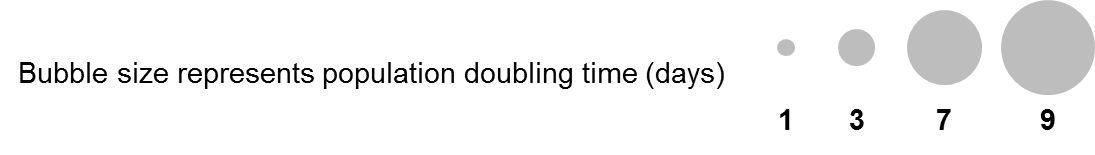
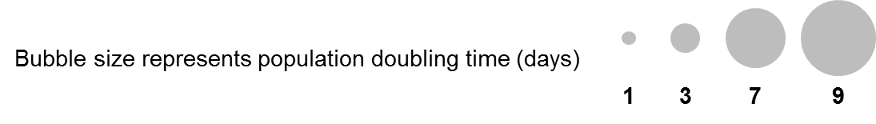
update links in process maps + legend

Changed region(s): [[0.0308, 0.4355, 0.6473, 0.5323], [0.4315, 0.4839, 0.524, 0.5323], [0.7705, 0.7016, 0.8014, 0.7258]]

diff --git a/processmap_intro.md b/processmap_intro.md
@@ -4,16 +4,16 @@ title: Process maps
 permalink: /processmaps/
 
 ---
-This page is used to render the interactive visualisations described in "Large-scale mesenchymal stromal cell expansion: a visual tool for bioprocess efficiency comparability" published in [Tissue Engineering Part B][TEpartB]. 
+This page is used to render the interactive visualisations described in "Large-scale mesenchymal stromal cell expansion: a visual tool for bioprocess efficiency comparability" published in [Tissue Engineering Part B][doi]. 
 
 For the process map that compares the different culture vessels, cell density at harvest, the process scale and expansion factor follow this link: [process map 1][pm1].
  
  
 For the process map that compares the different cell types, resulting population doubling times, the process scale and expansion factor follow this link: [process map 2][pm2].
 
-Final publication is available from Mary Ann Liebert, Inc., publishers http://dx.doi.org/10.1089/ten.TEB.2016.0111.
+Final publication is available from Mary Ann Liebert, Inc., publishers [http://dx.doi.org/10.1089/ten.TEB.2016.0111][doi].
 
 
 [pm1]: /processmaps/1/
 [pm2]: /processmaps/2/
-[TEpartB]: http://online.liebertpub.com/teb
+[doi]: http://dx.doi.org/10.1089/ten.TEB.2016.0111

diff --git a/processmap1.md b/processmap1.md
@@ -12,8 +12,12 @@ permalink: /processmaps/1/
 {% include image.html
             img="img/legend4.png"
             title="legend"
-            caption="" %}
+            caption=""
+            style="width: 30px" %}
 
 
-Final publication is available from Mary Ann Liebert, Inc., publishers http://dx.doi.org/10.1089/ten.TEB.2016.0111.
+Final publication is available from Mary Ann Liebert, Inc., publishers [http://dx.doi.org/10.1089/ten.TEB.2016.0111][doi].
+
 Prometheus KU Leuven,  All Rights Reserved 2016
+
+[doi]: http://dx.doi.org/10.1089/ten.TEB.2016.0111

diff --git a/processmap2.md b/processmap2.md
@@ -14,5 +14,8 @@ permalink: /processmaps/2/
             title="legend"
             caption="" %}
             
-Final publication is available from Mary Ann Liebert, Inc., publishers http://dx.doi.org/10.1089/ten.TEB.2016.0111.
+Final publication is available from Mary Ann Liebert, Inc., publishers [http://dx.doi.org/10.1089/ten.TEB.2016.0111][doi].
+
 Prometheus KU Leuven,  All Rights Reserved 2016
+
+[doi]: http://dx.doi.org/10.1089/ten.TEB.2016.0111
